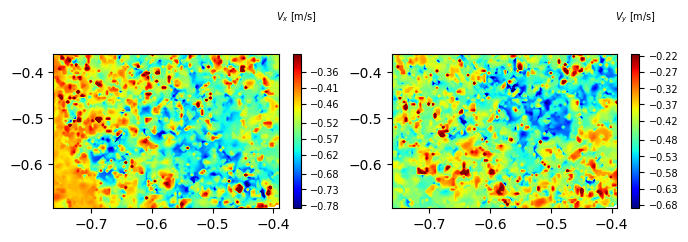
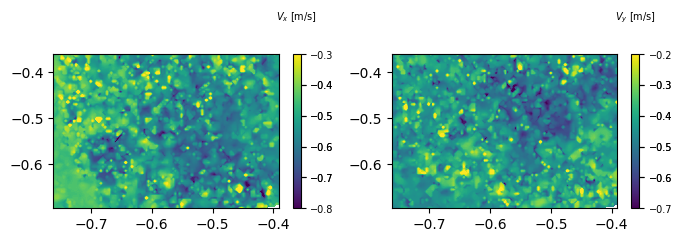
update

diff --git a/src/ddr_davis_data/version.py b/src/ddr_davis_data/version.py
@@ -1,2 +1,2 @@
-version = "0.1.18"
+version = "0.1.19"
 __version__ = version

diff --git a/README.md b/README.md
@@ -29,7 +29,12 @@ import ddr_davis_data
 import matplotlib.pyplot as plt
 import numpy as np
 import os
+
+print(ddr_davis_data.version)
 ```
+
+    0.1.19
+    
 
 We need the filepath to Davis set. Here, we will take one average velocity set file. In Davis the files are arranges in chronological manner. The base or the first set (folder containing files) is of recorded images. Then folder inside the base set can be anything depending upon the processing performed. If background image is subtracted then, the next folder would contain subtracted images. Then next folder inside that folder would be instantaneous and then average velocity folder. The hierarchy of the folder depends upon the processing sequence performed. For the case shown here, the hierarchy is as follows.
 
@@ -238,7 +243,8 @@ Above code directly access the ` lvreader.frame.VectorFrame.plot()` function. Th
 fig = plt.figure(figsize=(3,1.5))
 ax = fig.add_subplot(111)
 
-ddr_davis_data.plot_contourf(ax=ax, vel_set=s1, n=10, z='velocity_magnitude', font_size=7, ctitle='|V|[m/s]')
+ddr_davis_data.plot_contourf(ax=ax, vel_set=s1, n=10, z='velocity_magnitude', font_size=7,
+                            ctitle='|V|',clabel='[m/s]',labelpad=10)
 plt.show()
 ```
 
@@ -257,10 +263,12 @@ plt.show()
 fig = plt.figure(figsize=(8,2))
 
 ax1 = fig.add_subplot(121)
-ddr_davis_data.plot_contourf(ax=ax1, vel_set=s1, n=7, z='u', font_size=10, ctitle='$V_x$[m/s]')
+ddr_davis_data.plot_contourf(ax=ax1, vel_set=s1, n=7, z='u', font_size=10,
+                             ctitle='$V_x$',clabel='[m/s]',labelpad=10)
 
 ax2 = fig.add_subplot(122)
-ddr_davis_data.plot_contourf(ax=ax2, vel_set=s1, n=7, z='v', font_size=10, ctitle='$V_y$[m/s]')
+ddr_davis_data.plot_contourf(ax=ax2, vel_set=s1, n=7, z='v', font_size=10,
+                             ctitle='$V_y$',clabel='[m/s]',labelpad=10)
 
 plt.show()
 ```
@@ -358,9 +366,10 @@ d1['z'] = (d1['u']**2 + d1['v']**2)**0.5
 #plotting contour of velocity magnitude
 ddr_davis_data.plot_contourf(ax=ax1,data=d1,font_size=7,ctitle='|V| [m/s]')
 #plotting vectors, here the width and scale are adjusted for better vision
-ddr_davis_data.plot_quiver(ax=ax1,data=d1,fracx=5,fracy=5,scale=100,width=0.005,color='#000000ff')
+ddr_davis_data.plot_quiver(ax=ax1,data=d1,fracx=5,fracy=5,scale=20,width=0.007,color='#000000ff',normalize=True)
 plt.show()
 ```
+`normalize = True` attribute will normalize the velocity values. This helps when the velocity magnitudes changes very much within the plot.
 
 
     
@@ -391,6 +400,20 @@ plt.show()
 
 here `arrowsize` is 0.01 for better visualization. But for some cases, default `arrowsize` gives good results.
 
+## get $\omega_z$
+
+There is a function to calculate $\omega_z$ from the data. The function accepts the data in dict like object form.
+
+```py
+d1 = s1.make_data(n=0)
+d1 = get_omega_z(data=d1)
+
+```
+
+```d1['z']``` contains the calculated $\omega_z$ from the given data. You can further use this dict like data in plotting or any analysis.
+
+Similarly there is function ```get_mod_V``` which accepts the same dict like data, and calculates the velocity magnitude. As this calculation is one line and you can do it easily, the usage of function is not specifically described here.
+
 ## Accessing recording images
 Recording images can be accessed if `load_rec=True` in instantiation of velocity_set object. Also there should be recording *.set* files in the parent directory (at any level) of the velocity set file.
 
@@ -415,7 +438,7 @@ plt.show()
 
 
     
-![png](https://github.com/ddrathod121294/ddr_davis_data/blob/base/README_files/output_38_0.png?raw=true)
+![png](https://github.com/ddrathod121294/ddr_davis_data/blob/base/README_files/output_37_0.png?raw=true)
     
 
 
@@ -457,7 +480,7 @@ plt.show()
 
 
     
-![png](https://github.com/ddrathod121294/ddr_davis_data/blob/base/README_files/output_40_0.png?raw=true)
+![png](https://github.com/ddrathod121294/ddr_davis_data/blob/base/README_files/output_39_0.png?raw=true)
     
 
 
@@ -497,7 +520,7 @@ plt.show()
 
 
     
-![png](https://github.com/ddrathod121294/ddr_davis_data/blob/base/README_files/output_42_0.png?raw=true)
+![png](https://github.com/ddrathod121294/ddr_davis_data/blob/base/README_files/output_41_0.png?raw=true)
     
 
 
@@ -545,7 +568,7 @@ plt.show()
 
 
     
-![png](https://github.com/ddrathod121294/ddr_davis_data/blob/base/README_files/output_47_0.png?raw=true)
+![png](https://github.com/ddrathod121294/ddr_davis_data/blob/base/README_files/output_46_0.png?raw=true)
     
 
 
@@ -590,7 +613,7 @@ plt.show()
 
 
     
-![png](https://github.com/ddrathod121294/ddr_davis_data/blob/base/README_files/output_54_0.png?raw=true)
+![png](https://github.com/ddrathod121294/ddr_davis_data/blob/base/README_files/output_53_0.png?raw=true)
     
 
 
